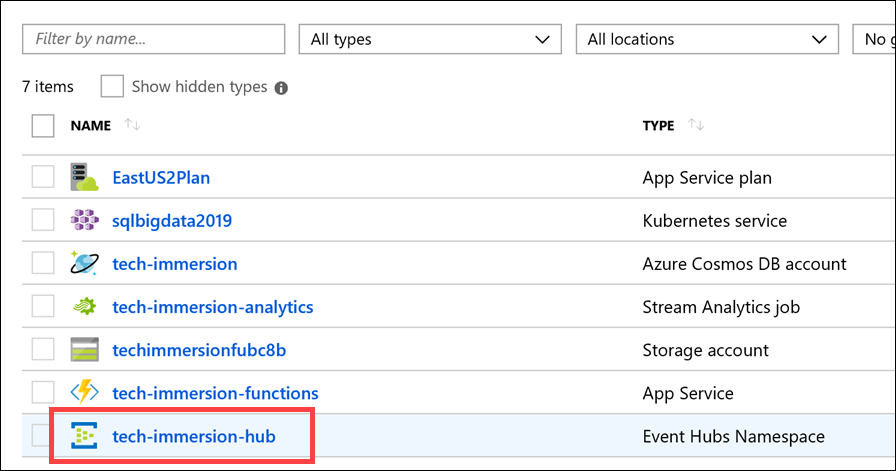
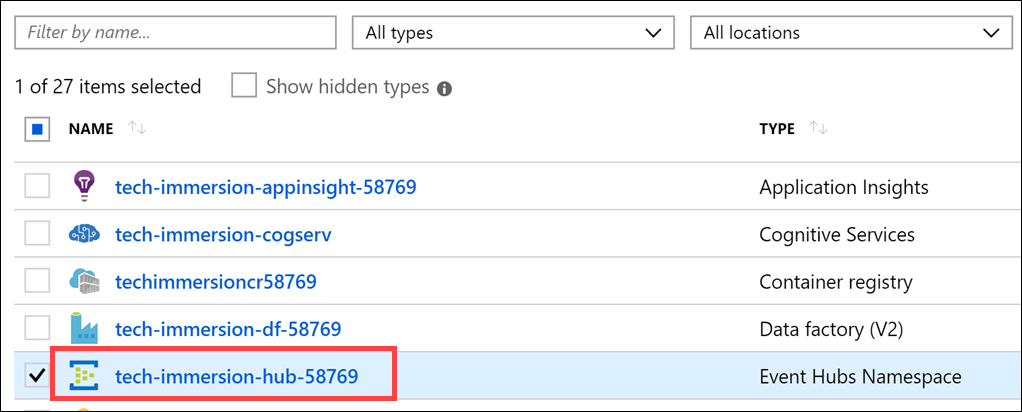
Minor updates

diff --git a/day1-exp2/README.md b/day1-exp2/README.md
@@ -163,7 +163,7 @@ In this task, you will create a new Cosmos DB database and collection, set the t
 
 8.  Select **OK** on the bottom of the form when you are finished entering the values.
 
-9.  Select **Firewall and virtual networks** from the left-hand menu, then select Allow access from **All networks**. Select **Save**. This will allow the vehicle telemetry generator application to send data to your Cosmos DB collection. Select **Save**.
+9.  Select **Firewall and virtual networks** from the left-hand menu and confirm that Allow access from **All networks** is selected. If it was not previously set to this, select **Save**. This will allow the vehicle telemetry generator application to send data to your Cosmos DB collection.
 
     ![The All networks option is selected within the Firewall and virtual networks blade.](media/cosmos-db-firewall.png 'Firewall and virtual networks')
 
@@ -187,7 +187,7 @@ In this task, you will create and configure a new event hub within the provided 
 
     ![The tech-immersion resource group is selected.](media/tech-immersion-rg.png 'Resource groups')
 
-3.  Select the **Event Hubs Namespace** from the list of resources in your resource group.
+3.  Select the **Event Hubs Namespace** (`tech-immersion-hub-YOUR_UNIQUE_ID`) from the list of resources in your resource group.
 
     ![The Event Hubs Namespace is selected in the resource group.](media/tech-immersion-rg-event-hubs.png 'tech-immersion resource group')
 
@@ -266,7 +266,7 @@ In this task, you will configure Stream Analytics to use the event hub you creat
 
     ![The tech-immersion resource group is selected.](media/tech-immersion-rg.png 'Resource groups')
 
-3.  Select the **Stream Analytics job** from the list of resources in your resource group.
+3.  Select the **Stream Analytics job** (`tech-immersion-analytics-YOUR_UNIQUE_ID`) from the list of resources in your resource group.
 
     ![The Stream Analytics job is selected in the resource group.](media/tech-immersion-rg-stream-analytics.png 'tech-immersion resource group')
 
@@ -300,11 +300,11 @@ In this task, you will configure Stream Analytics to use the event hub you creat
 
     ![The Add button and Power BI menu item are highlighted.](media/stream-analytics-add-output-link.png 'Add output - Power BI')
 
-10. In the **New Output** blade, select the **Authorize** button to authorize a connection from Stream Analytics to your Power BI account. If you do not have a Power BI account, select the **Sign up** link below the button.
+10. In the **New Output** blade, select the **Authorize** button to authorize a connection from Stream Analytics to your Power BI account.
 
     ![The Authorize button is highlighted in the New Output blade.](media/stream-analytics-new-output-authorize.png 'New Output')
 
-11. When prompted, sign in to your Power BI account.
+11. When prompted, sign in to your Power BI account, which is the same username and password you were provided with and used to login to the Azure Portal.
 
     ![The Power BI sign in form is displayed.](media/power-bi-sign-in.png 'Power BI Sign In')
 
@@ -503,7 +503,7 @@ In this task, you will open the lab solution in Visual Studio, publish the Funct
 
     `SECONDS_TO_LEAD` is the amount of time to wait before sending vehicle telemetry data. Default value is `0`.
 
-    `SECONDS_TO_RUN` is the maximum amount of time to allow the generator to run before stopping transmission of data. The default value is `600`. Data will also stop transmitting when you enter Ctrl+C while the generator is running, or if you close the window.
+    `SECONDS_TO_RUN` is the maximum amount of time to allow the generator to run before stopping transmission of data. The default value is `1800`. Data will also stop transmitting when you enter Ctrl+C while the generator is running, or if you close the window.
 
 9.  Now you are ready to run the transaction generator. Select the **Debug** menu item, then select **Start Debugging**, or press _F-5_ on your keyboard.
 
